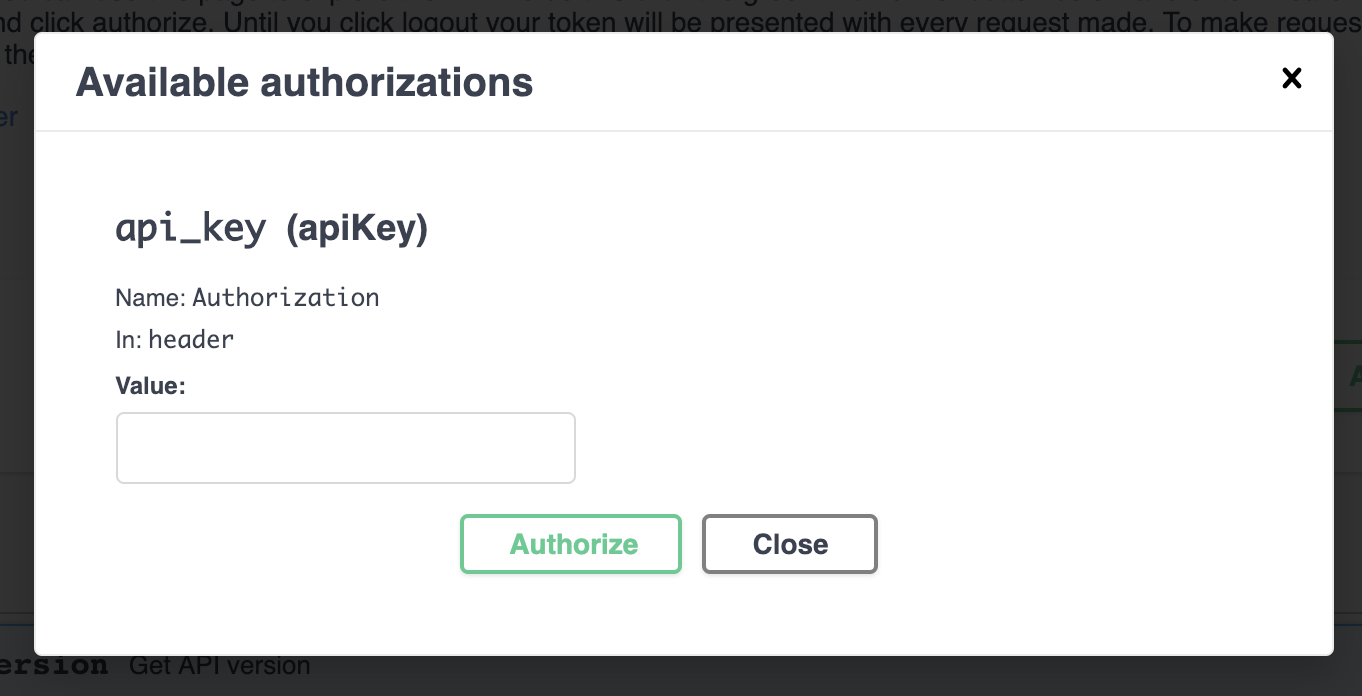
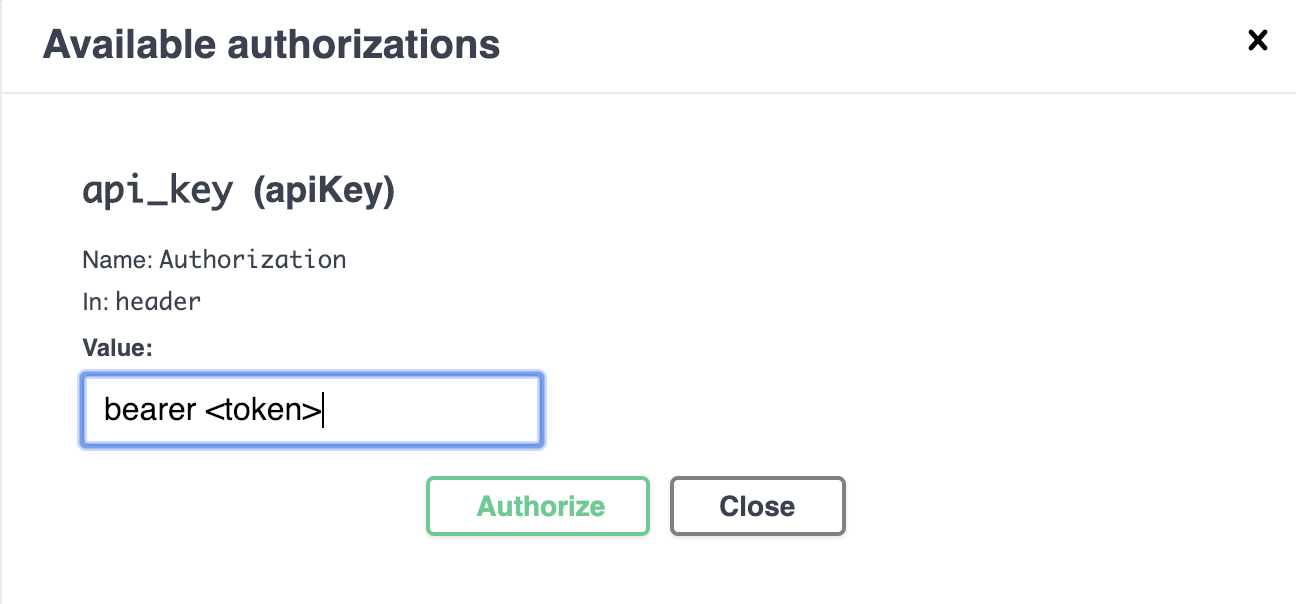
Adding wording improvements suggested in PR comments

diff --git a/doc/DECRYPTION_EXAMPLE.md b/doc/DECRYPTION_EXAMPLE.md
@@ -16,6 +16,7 @@ To complete this decryption example, you will need:
 - You can write your own decryption code later based on the [documentation](../API.md).  Today we'll use the [python example decryption code](https://gist.github.com/rnagle/a2b8ecb7905337afaf00c060024d4fb4), which requires:
     - [Python](https://www.python.org/downloads/) installed
     - [decrypt.py](https://gist.githubusercontent.com/rnagle/a2b8ecb7905337afaf00c060024d4fb4/raw/76191f339230f8c5085b711acd7482e74202168a/decrypt.py) and [requirements.txt](https://gist.githubusercontent.com/rnagle/a2b8ecb7905337afaf00c060024d4fb4/raw/76191f339230f8c5085b711acd7482e74202168a/requirements.txt) downloaded to the same directory
+    - Run `pip install requirements.txt` from that same directory to download any required libraries
 
 
 ### Exploring the API with Swagger
@@ -28,14 +29,16 @@ We'll be interacting with the [BCDA API](../API.md) in your browser using [Swagg
 
 Let's provide our token to get full access to the API.
 
-<img src="images/decrypt_demo_02.png" alt="Authorization dialog" width="350" />
-
 - Click the `Authorize` button
 - Paste your `token` in the `api_key` box
+
+<img src="images/decrypt_demo_02.png" alt="Authorization dialog" width="350" />
+
 - Click `Authorize`, then `Close`
 
 <img src="images/decrypt_demo_03.png" alt="API menu" width="600" />
 
+### Requesting a file
 We have two types of encrypted files we could download: Patient and Explanation of Benefit (EoB).  Let's choose EoB today.
 
 - Click the `/api/v1/ExplanationOfBenefit/$export` link
@@ -60,7 +63,7 @@ If you'd like to repeat this from the command line or implement this API call in
 
 <img src="images/decrypt_demo_07.png" alt="Job status response" width="600" />
 
-Depending on the size of the file, the job may take some time.  If the job is not yet complete, this will give us status information.  Shown below are the results for our completed job.  We can download the file from the URL provided.
+Depending on the size of the file, the job may take some time.  If the job is not yet complete, this will give us status information.  Simply wait a few seconds and click execute again until the job completes and you get a result for a completed job as shown below.  We can download the file from the URL provided.
 
 Take special note of the new `KeyMap` section of the response.  To decrypt the file, we will need the filename (the first part of the keymap) and the [symmetric key](../ENCRYPTION.md#how-we-encrypt) (the second part of the keymap), as shown above.  There are no spaces in either one.
 
@@ -78,6 +81,7 @@ Our last API task is to download the encrypted file.
 
 <img src="images/decrypt_demo_09.png" alt="Download file" width="600" />
 
+### Decrypting a file
 After downloading the file, we'll move to the command line.  Navigate to the directory you saved `decrypt.py` and `requirements.txt` in [earlier](#gathering-the-tools).
 
 <img src="images/decrypt_demo_10.png" alt="Directory with decryption tool" width="450" />
@@ -87,7 +91,7 @@ Let's verify that Python is running properly.
 
 <img src="images/decrypt_demo_11.png" alt="Decrypt.py syntax" width="600" />
 
-- Rename the downloaded file with the filename you saved earlier.
+- Rename the downloaded file with the filename you saved earlier. **This is extremely important as the file name is used as part of the file decryption process and using a different file name will cause decryption to fail.**
 
 <img src="images/decrypt_demo_12.png" alt="Rename downloaded file" width="600" />
 
@@ -97,6 +101,7 @@ We're now ready to decrypt the file!  Our sample decryption tool will print the 
         --pk   [location_of_private_key] 
         --file [location_of_encrypted_file] 
         --key  [symmetric_key_value]
+        > filename.txt
 
 <img src="images/decrypt_demo_13.png" alt="Running decrypt.py" width="900" />
 
@@ -111,7 +116,7 @@ Take a look at the result.  If you do not see unencrypted [NDJSON](http://ndjson
 ### Troubleshooting
 #### Authentication problems in Swagger
 - Has your token expired?  [Ask the support team](https://groups.google.com/forum/#!forum/bc-api) for a new token.
-- Is the lock on the `Authorize` icon not closed?  Click it again, and after pasting your token in the `api_key` box, make sure to click the `Authorize` button.
+- Is it possible you clicked on `Logout`?  Is the lock on the `Authorize` icon not closed?  Click it again, and after pasting your token in the `api_key` box, make sure to click the `Authorize` button.
 - Are there any spaces or newlines in your token?  Remove them and paste it as a single line.
 
 #### Python not installed
